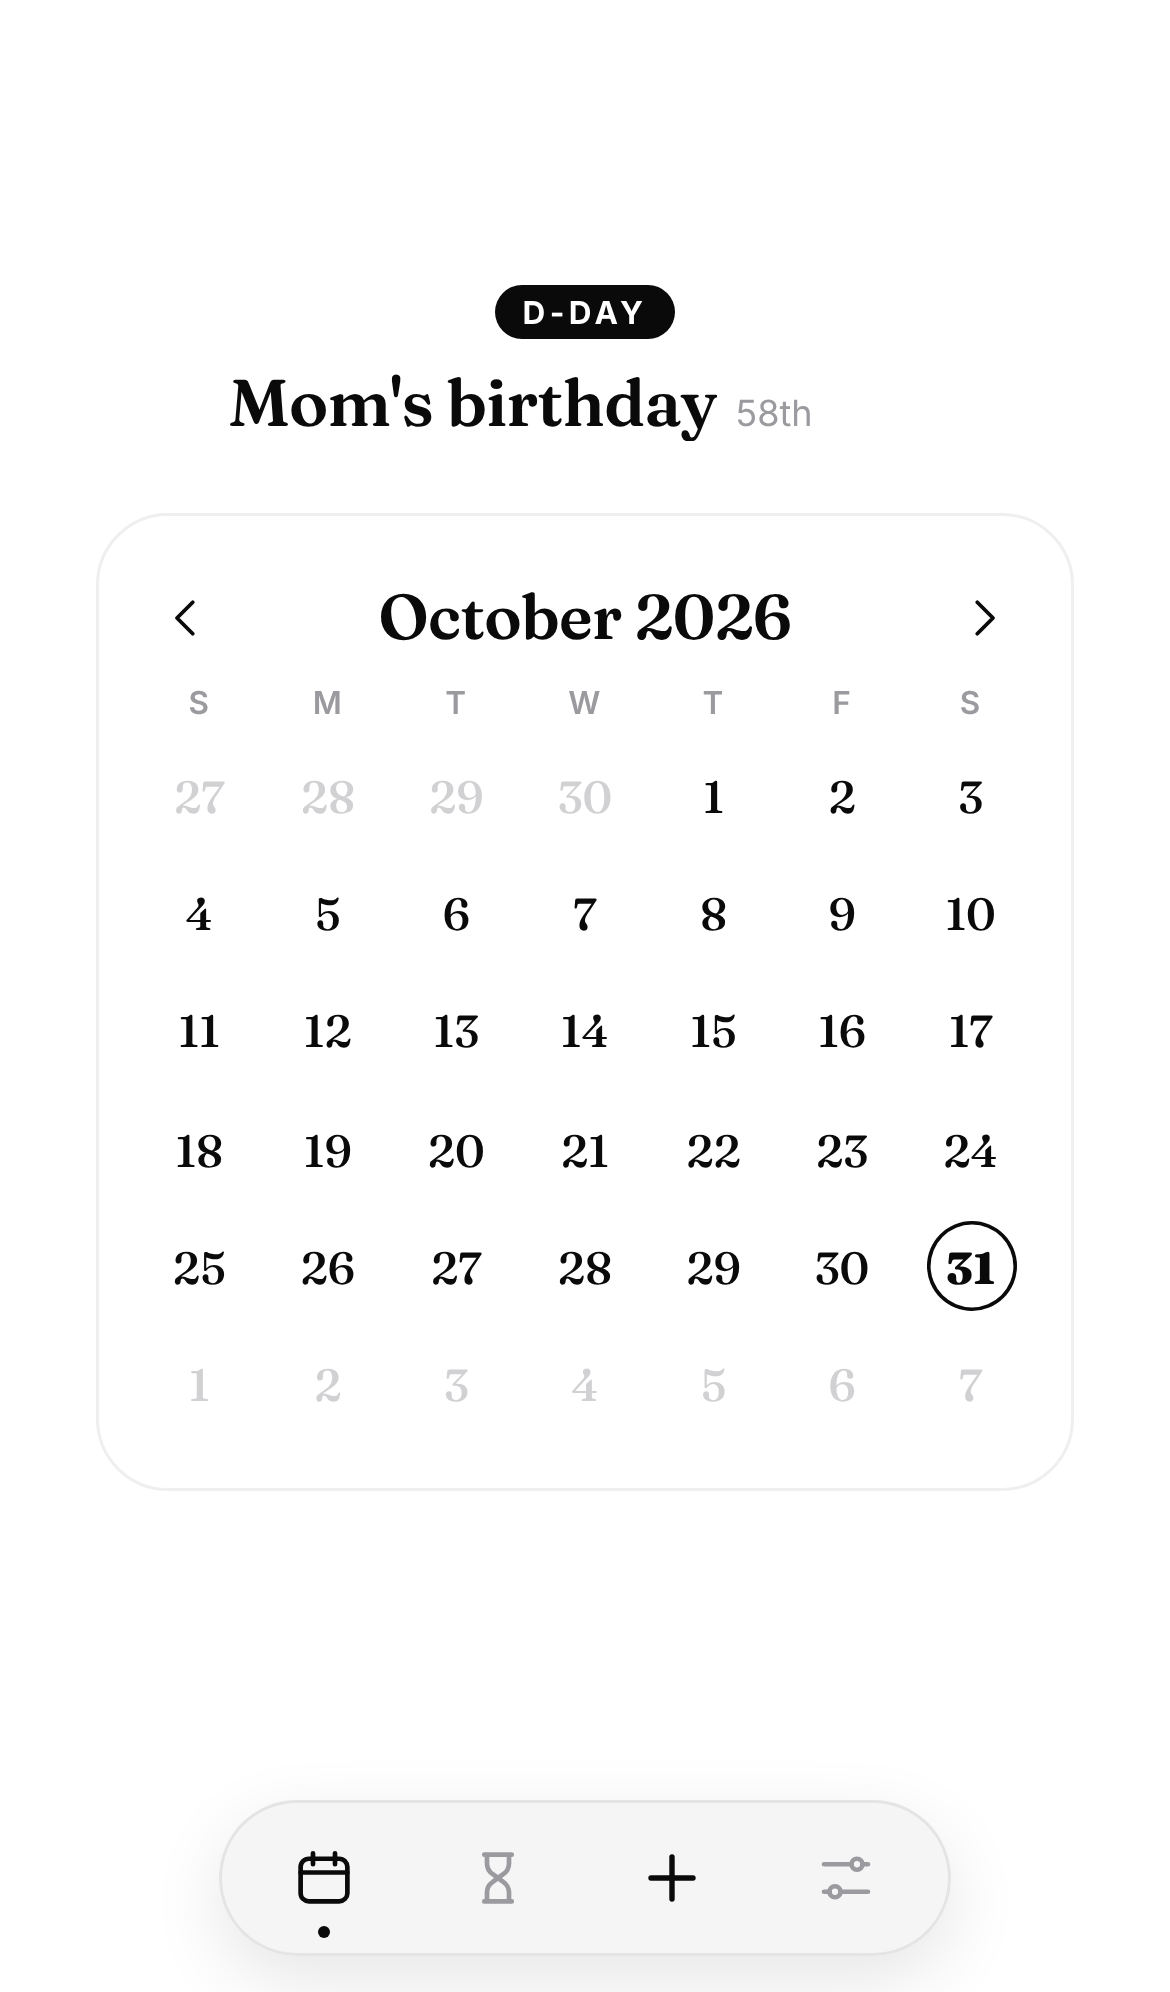
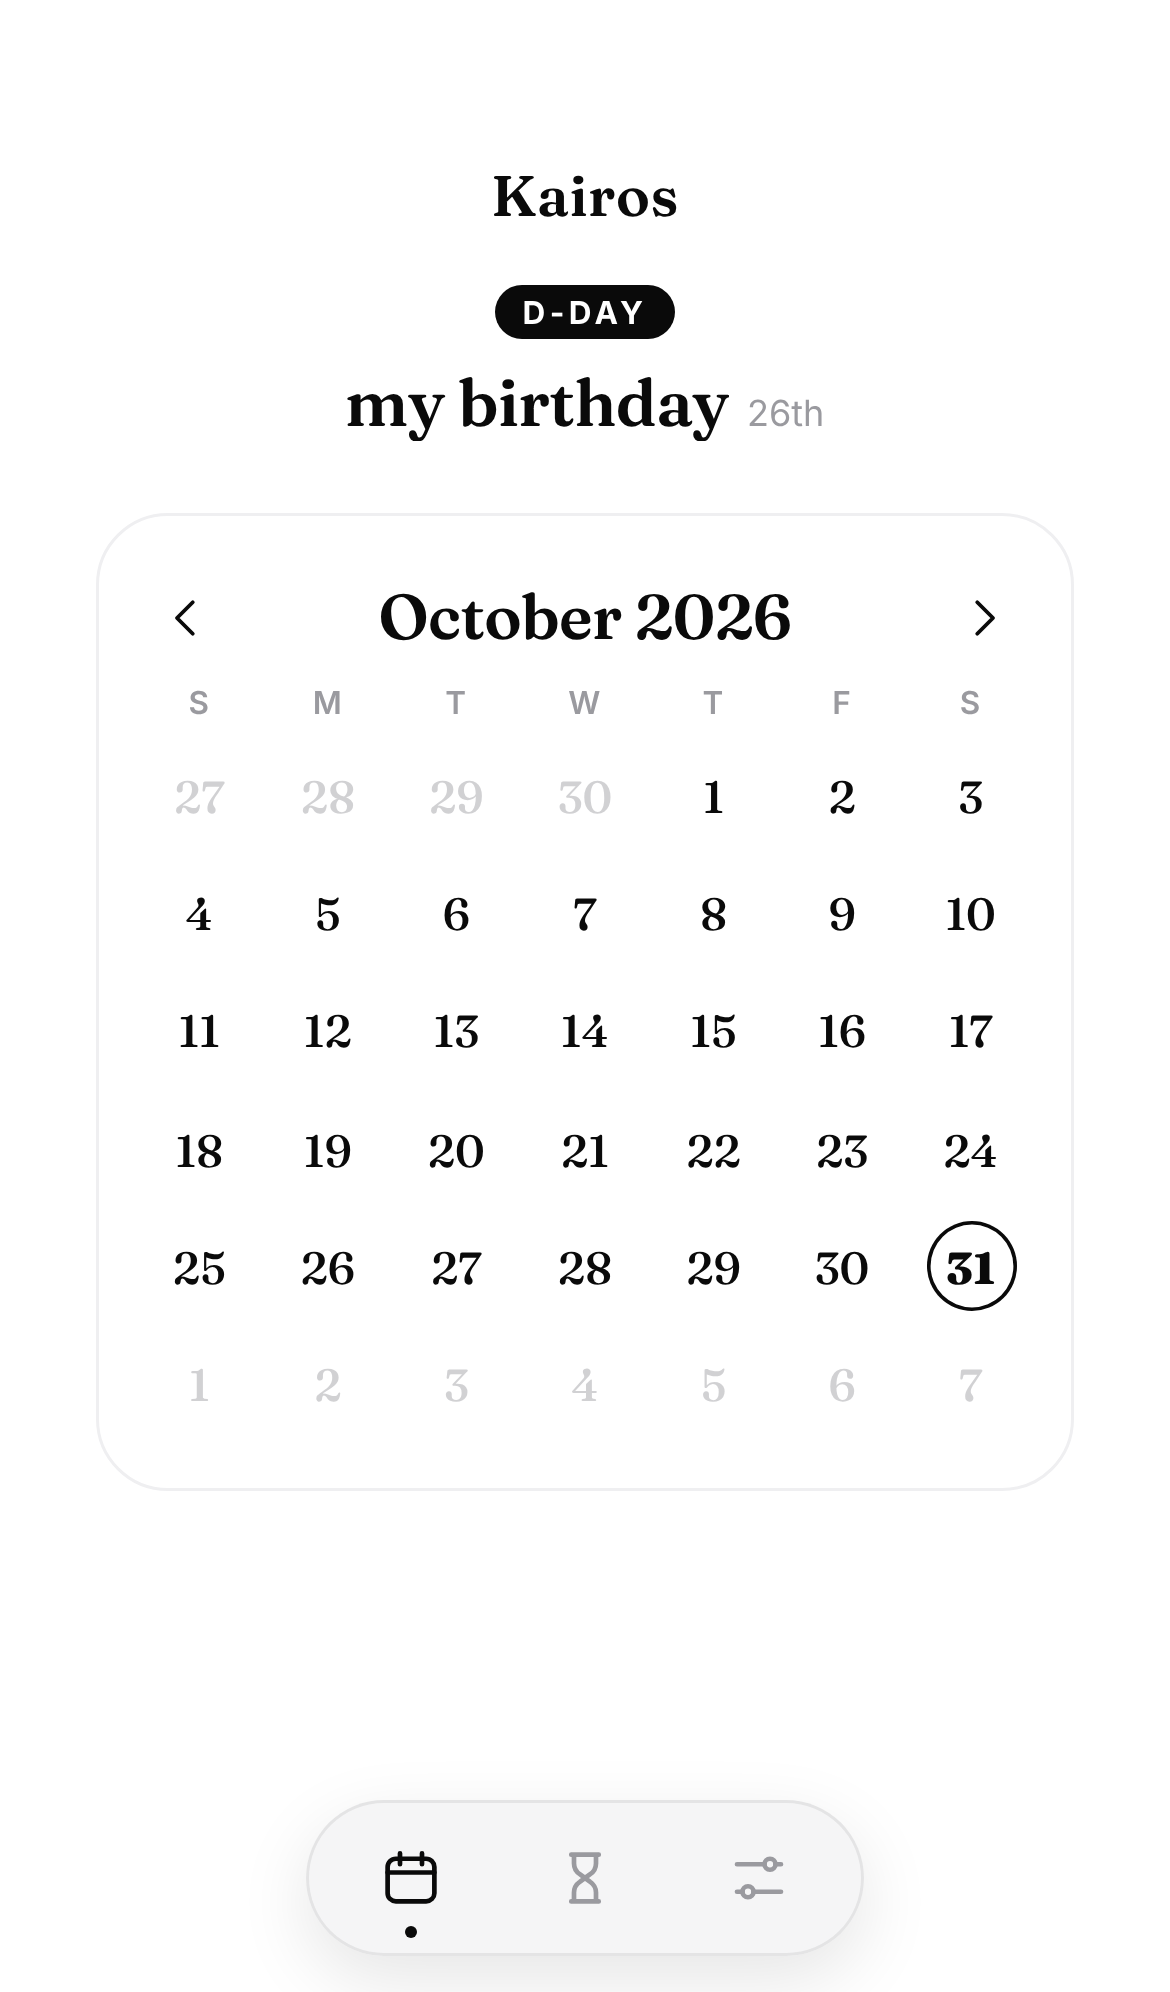
Add a small Kairos wordmark above the calendar
On the starting screen a ~19px wordmark sits above the calendar and
above today's D-Days, without moving the calendar; it fades out in week
mode. Bump service worker cache to planner-v33.

Claude-Session: https://claude.ai/code/session_01ASSW9g954rm1kx6hrjz3o3

diff --git a/js/app.js b/js/app.js
@@ -17,7 +17,7 @@ const settingsEl = document.getElementById('view-settings');
 const ddayEl = document.getElementById('view-dday');
 const loginEl = document.getElementById('view-login');
 const toastEl = document.getElementById('toast');
-const topSlot = document.getElementById('top-slot');
+const ddaySlot = document.getElementById('dday-slot');
 
 // view.selected = 'YYYY-MM-DD' → week mode; null → month mode.
 const now = new Date();
@@ -86,7 +86,7 @@ function render() {
   if (view.tab === 'dday') { renderDdays(ddayEl); return; }
 
   renderCalendar(calendarEl, view, prevView, actions);
-  const ddaysToday = renderTodayDdays(topSlot, () => { view.tab = 'dday'; render(); });
+  const ddaysToday = renderTodayDdays(ddaySlot, () => { view.tab = 'dday'; render(); });
   calendarView.classList.toggle('has-dday', ddaysToday > 0);
   // Month mode shows only the calendar, centered; the panel's old content just fades out.
   // When opening a day, build its lists first (still hidden, slightly lowered), then switch

diff --git a/styles.css b/styles.css
@@ -97,6 +97,15 @@ svg { width: 20px; height: 20px; fill: none; stroke: currentColor; stroke-width:
   transition: opacity calc(var(--dur) * .6) var(--ease);
 }
 .week-mode .today-dday { opacity: 0; pointer-events: none; }
+#dday-slot { align-self: stretch; }
+
+/* Small "Kairos" wordmark above the calendar (and above today's D-Days), month mode only. */
+.brand {
+  font-size: 19px; letter-spacing: .01em; margin-bottom: 26px;
+  transition: opacity calc(var(--dur) * .6) var(--ease);
+}
+.has-dday .brand { margin-bottom: 18px; }
+.week-mode .brand { opacity: 0; }
 .tdd-label {
   font-size: 10.5px; font-weight: 700; letter-spacing: .14em; text-transform: uppercase;
   color: var(--on-accent); background: var(--accent); border-radius: 999px; padding: 3px 9px 2px;

diff --git a/index.html b/index.html
@@ -17,7 +17,10 @@
 </head>
 <body>
   <div class="view month-mode" id="view-calendar">
-    <div class="grow top-slot" id="top-slot"></div>
+    <div class="grow top-slot">
+      <div class="brand display" aria-hidden="true">Kairos</div>
+      <div id="dday-slot"></div>
+    </div>
     <section class="calendar" id="calendar" aria-label="Calendar"></section>
     <main class="panel" id="panel"></main>
     <div class="grow" aria-hidden="true"></div>

diff --git a/sw.js b/sw.js
@@ -1,5 +1,5 @@
 // Bump CACHE whenever any file in ASSETS changes, so installed copies update.
-const CACHE = 'planner-v32';
+const CACHE = 'planner-v33';
 const ASSETS = [
   './',
   'index.html',

diff --git a/CLAUDE.md b/CLAUDE.md
@@ -32,7 +32,9 @@ laptop. So:
 - The calendar is a **perfect square card** (always 6 week rows) with space on
   all sides, "Month Year" **centered** between ‹ › arrows. There is no date
   heading above the day view (the owner found it redundant).
-- **No date selected → only the calendar is on screen**, exactly centered. When a
+- **No date selected → only the calendar is on screen**, exactly centered, with a small
+  "Kairos" wordmark (`.brand`, ~19px display font) above it — and above today's D-Days
+  when there are any; it fades out in week mode. When a
   D-Day is shown above it, it sits slightly lower instead (`.has-dday`: top spacer
   1.3 : bottom 0.7). Tapping a date slides the card to the top, **rolls the month up into
   that date's week**, and the space below shows that day in **two columns**:
@@ -88,7 +90,7 @@ laptop. So:
   "D+30". Upcoming sorted soonest first; past one-off dates count up under "Since".
   Yearly entries roll to the next occurrence (`ddayTarget`). Tap a row to edit/delete.
   **On the day itself**, the starting screen (month mode) shows it in the free space
-  above the centered calendar (`#top-slot`, `renderTodayDdays`); tapping it opens the
+  above the centered calendar (`#dday-slot` inside the top spacer, below the wordmark; `renderTodayDdays`); tapping it opens the
   D-Day tab. It fades out in week mode and never shifts the calendar.
   Several D-Days on the same day form a horizontal row: the centered one is fully
   opaque, neighbours peek in at low opacity (12px gap). The row is positioned with
@@ -269,7 +271,7 @@ fetches with `cache: 'no-cache'` (bypassing Pages' 10-minute HTTP cache), the ap
 `controllerchange`. So the owner only needs to close and reopen the app once.
 
 **When you change any file the app loads, bump `CACHE` in `sw.js`**
-(currently `planner-v32`; bump to `planner-v33`, …) and keep its `ASSETS` list in sync
+(currently `planner-v33`; bump to `planner-v34`, …) and keep its `ASSETS` list in sync
 with every file in `js/` and `fonts/`, otherwise installed phones keep stale files.
 
 ## Git conventions
